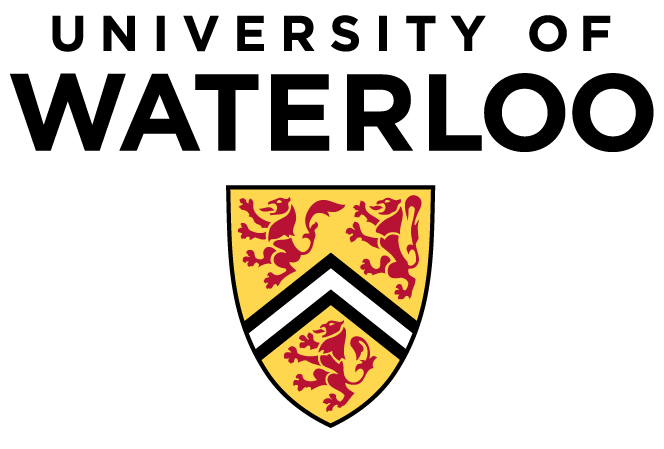
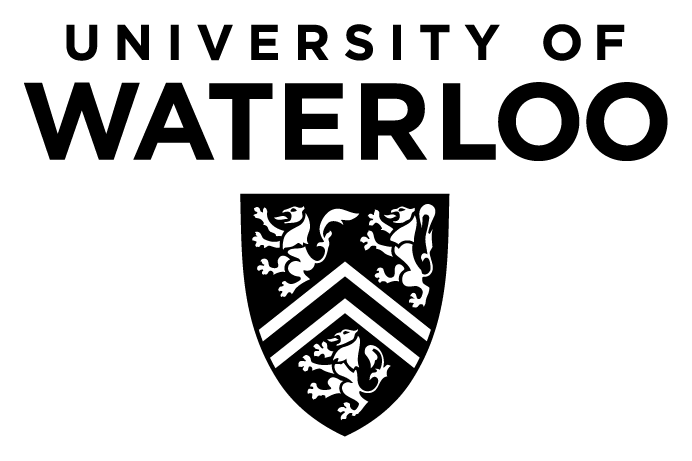
fix: preserve Waterloo crest detail

Changed region(s): [[0.0, 0.0312, 0.994, 0.3742], [0.3313, 0.4053, 0.6627, 0.9666]]

diff --git a/src/components/CircuitBoardAnimation.tsx b/src/components/CircuitBoardAnimation.tsx
@@ -29,6 +29,7 @@ type Card = {
   description?: string
   ctaText?: string
   status?: 'Pre-release'
+  wideLogo?: boolean
 }
 
 type TeamMember = {
@@ -63,7 +64,7 @@ const investors: Card[] = [
 const partners: Card[] = [
   { name: 'IISENSE', url: 'https://iisense.ca/', logo: iisenseLogo.src },
   { name: 'Silicon Jackets @ Georgia Tech', url: 'https://siliconjackets.gt/', logo: gtechLogo.src },
-  { name: 'University of Waterloo', url: 'https://uwaterloo.ca/', logo: uwaterlooLogo.src },
+  { name: 'University of Waterloo', url: 'https://uwaterloo.ca/', logo: uwaterlooLogo.src, wideLogo: true },
   { name: 'Partner with us', url: '/build-with-us/?interest=partnership', cta: true, logoType: 'text', logoText: 'Your Logo Here' },
 ]
 
@@ -240,7 +241,7 @@ const CardGrid: React.FC<{ items: Card[]; className?: string; cardClassName?: st
       const contents = (
         <>
           {item.logoType !== 'none' && (
-            <div className={`card-logo${item.logo ? ' has-image' : ''}`}>
+            <div className={`card-logo${item.logo ? ' has-image' : ''}${item.wideLogo ? ' card-logo-wide' : ''}`}>
               {item.logoType === 'image' || (!item.logoType && item.logo)
                 ? item.logo
                   ? <img src={item.logo} alt={`${item.name} logo`} loading="lazy" decoding="async" />

diff --git a/src/App.css b/src/App.css
@@ -378,6 +378,10 @@
   background: transparent;
 }
 
+.card-logo.card-logo-wide {
+  width: 180px;
+}
+
 .card-logo img {
   max-width: 100%;
   max-height: 100%;
